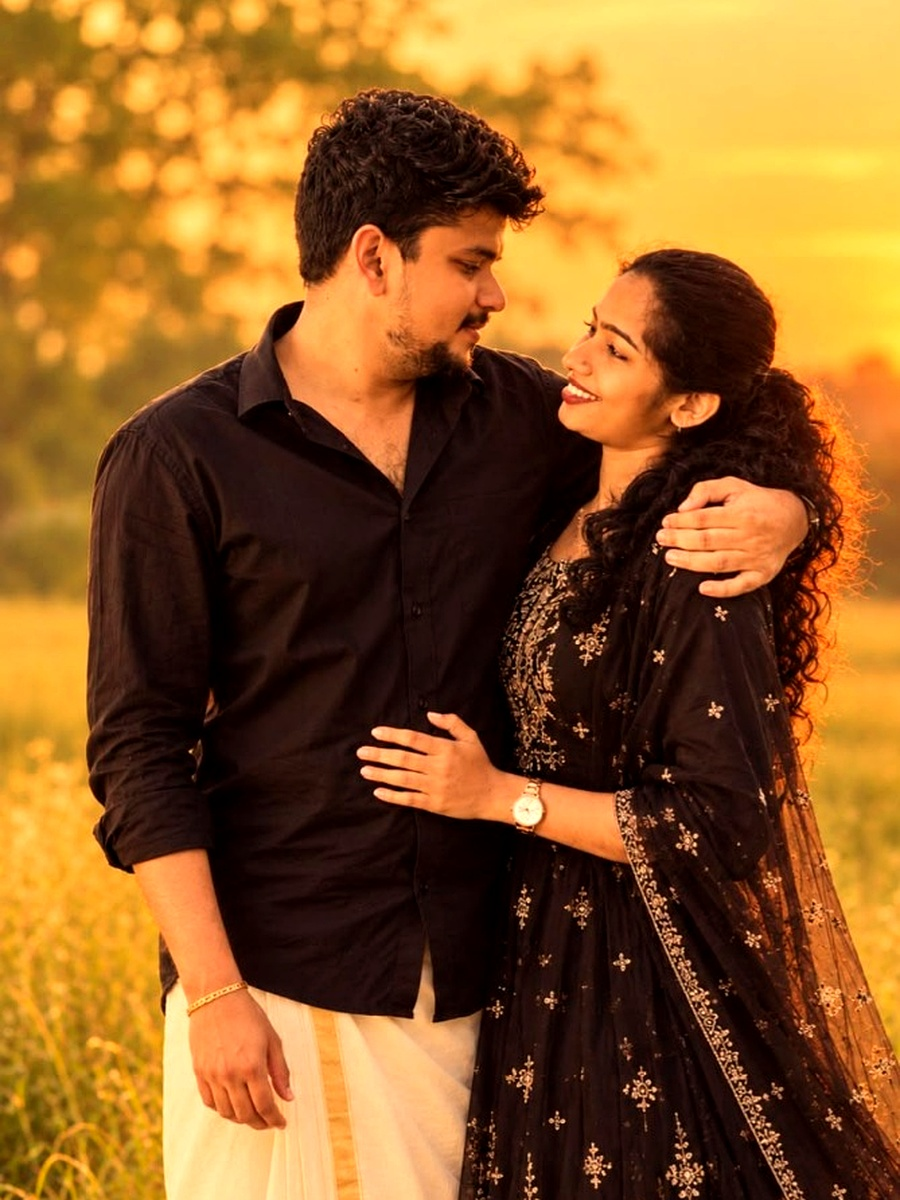
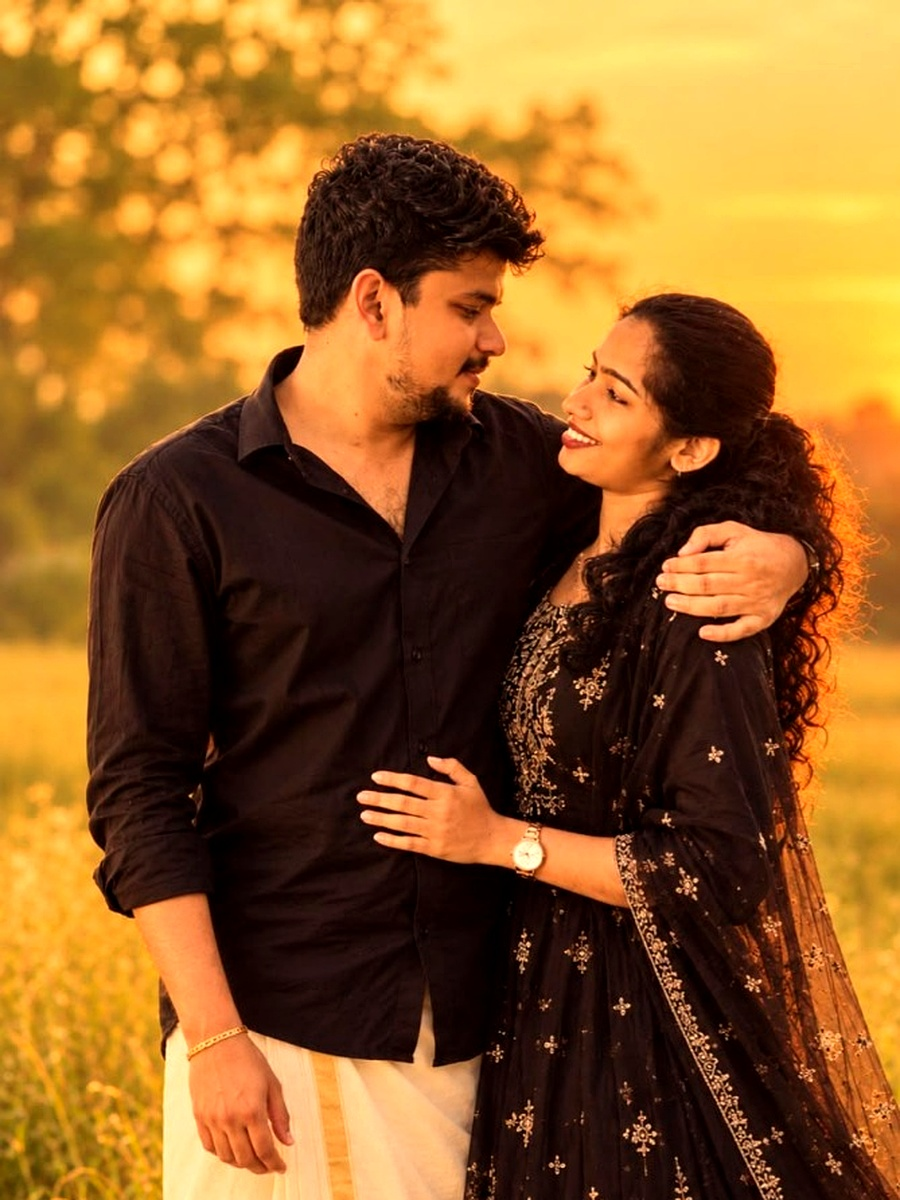
Remove redundant The Groom / The Bride names row and fix gallery-4 crop with cache busting

diff --git a/index.html b/index.html
@@ -1572,7 +1572,7 @@
     <!-- HERO -->
     <section id="hero">
       <div class="parallax-layer" data-parallax="0.18">
-        <div class="hero-bg" style="background-image:url('assets/hero.jpg');"></div>
+        <div class="hero-bg" style="background-image:url('assets/hero.jpg?v=3');"></div>
       </div>
       <div class="glow g1"></div>
       <div class="glow g2"></div>
@@ -1601,7 +1601,7 @@
       <div class="section-inner">
         <div class="eyebrow reveal">With Hearts Full Of Joy</div>
         <div class="couple-photo reveal reveal-d1">
-          <img src="assets/gallery-4.jpg" alt="Sanooj and Sneja">
+          <img src="assets/gallery-4.jpg?v=3" alt="Sanooj and Sneja">
           <div class="couple-photo-overlay">
             <div class="tap-icon">
               <svg width="24" height="24" viewBox="0 0 24 24" fill="none" stroke="currentColor" stroke-width="2">
@@ -1614,19 +1614,8 @@
         <p class="lead reveal reveal-d2" style="margin-top:36px;">
           With the love and blessings of our families,<br>
           we cordially invite your esteemed presence with family to celebrate the wedding ceremony of
-          <span style="display:block;white-space:nowrap;font-size:1.05em;margin-top:14px;"><strong style="font-weight:600;letter-spacing:.04em;">SANOOJ</strong> with <strong style="font-weight:600;letter-spacing:.04em;">SNEJA</strong></span>
+          <span style="display:block;font-size:clamp(1.3rem, 4.5vw, 1.75rem);margin-top:14px;color:var(--ink);letter-spacing:.04em;"><strong style="font-weight:600;">SANOOJ</strong> with <strong style="font-weight:600;">SNEJA</strong></span>
         </p>
-        <div class="names-row reveal reveal-d3">
-          <div class="name-block">
-            <div class="role">The Groom</div>
-            <div class="name">Sanooj</div>
-          </div>
-          <div class="amp-mini">&amp;</div>
-          <div class="name-block">
-            <div class="role">The Bride</div>
-            <div class="name">Sneja</div>
-          </div>
-        </div>
       </div>
     </section>
 
@@ -1672,7 +1661,7 @@
 
     <!-- PHOTO STRIP after countdown -->
     <div class="photo-strip reveal">
-      <img src="assets/gallery-3.jpg" alt="Sanooj &amp; Sneja" loading="lazy">
+      <img src="assets/gallery-3.jpg?v=3" alt="Sanooj &amp; Sneja" loading="lazy">
     </div>
 
     <!-- DATE -->
@@ -1696,7 +1685,7 @@
 
     <!-- PHOTO STRIP after date -->
     <div class="photo-strip reveal">
-      <img src="assets/gallery-2.jpg" alt="Sanooj &amp; Sneja" loading="lazy">
+      <img src="assets/gallery-2.jpg?v=3" alt="Sanooj &amp; Sneja" loading="lazy">
     </div>
 
     <!-- WEDDING CEREMONY -->
@@ -1733,7 +1722,7 @@
 
     <!-- PHOTO BANNER above family -->
     <div class="photo-banner reveal">
-      <img src="assets/gallery-1.jpg" alt="Sanooj &amp; Sneja" loading="lazy">
+      <img src="assets/gallery-1.jpg?v=3" alt="Sanooj &amp; Sneja" loading="lazy">
     </div>
 
     <!-- FAMILY -->
@@ -1795,7 +1784,7 @@
     <!-- CLOSING -->
     <section id="closing">
       <div class="parallax-layer" data-parallax="0.12" style="inset:-10% 0;">
-        <div class="bg-soft" style="background-image:url('assets/soft-bg.jpg');"></div>
+        <div class="bg-soft" style="background-image:url('assets/soft-bg.jpg?v=3');"></div>
       </div>
       <div class="bg-overlay"></div>
       <div class="section" style="padding-bottom:0;">
